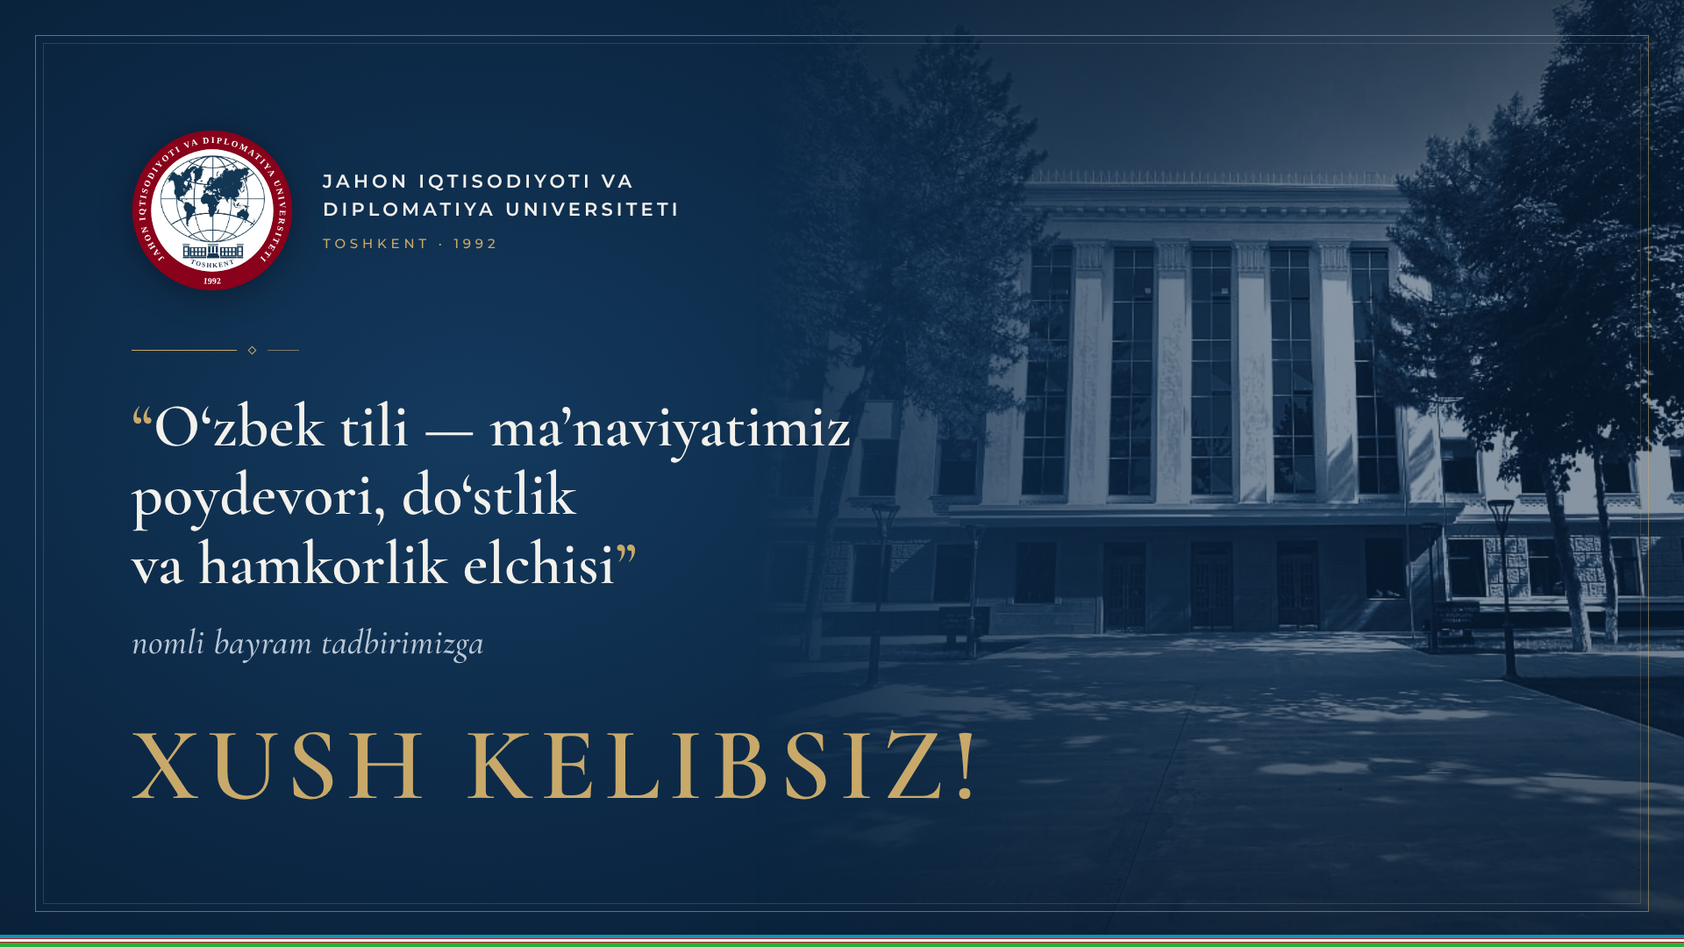
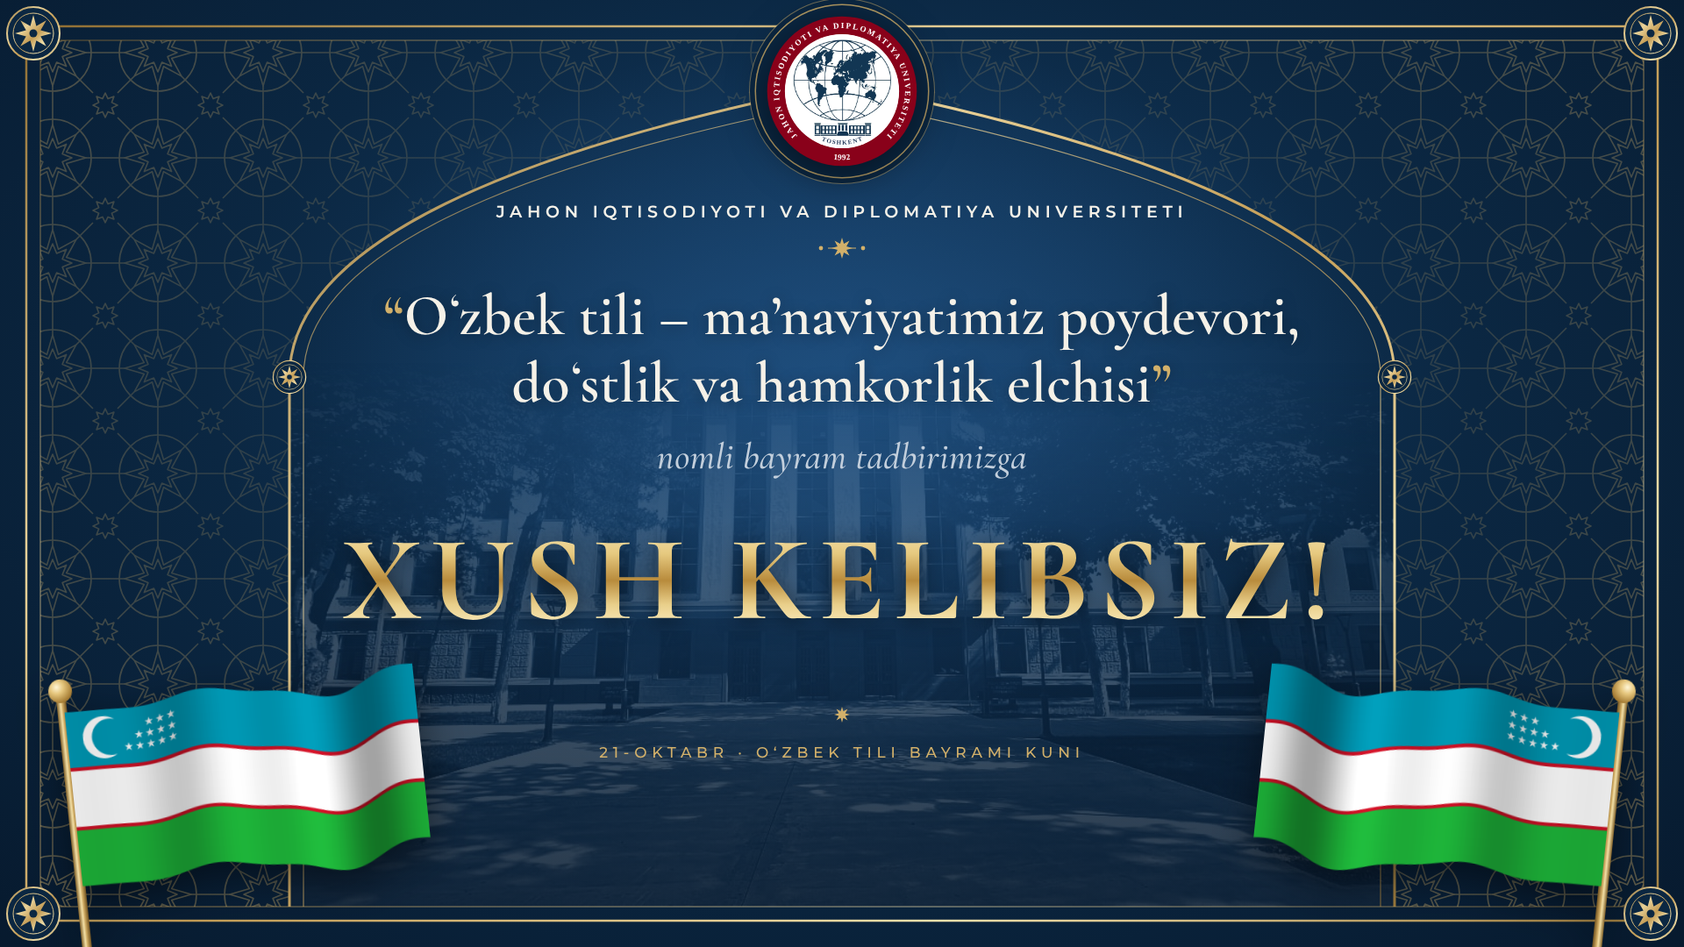
Баннер JIDU: богаче — арка-пештак, гирих, флаги, золото; тексты в официальной латинице
Claude-Session: https://claude.ai/code/session_01JGew3MMAL5gGKcuXmMspLN

diff --git a/banner/index.html b/banner/index.html
@@ -2,7 +2,7 @@
 <html lang="uz">
 <head>
 <meta charset="utf-8">
-<title>O‘zbek tili bayrami — JIDU</title>
+<title>Oʻzbek tili bayrami — JIDU</title>
 <style>
   @font-face { font-family: 'Cormorant Garamond'; src: url(fonts/CormorantGaramond.ttf); font-weight: 300 700; }
   @font-face { font-family: 'Cormorant Garamond'; src: url(fonts/CormorantGaramond-Italic.ttf); font-weight: 300 700; font-style: italic; }
@@ -11,90 +11,164 @@
   @font-face { font-family: 'Seal'; src: url(fonts/LiberationSerif-Bold.ttf); font-weight: 700; }
 
   :root {
-    --navy-0: #071a2e;
-    --navy-1: #0d2a48;
-    --navy-2: #143a5e;
-    --ink: #f3f1ec;
-    --mist: #b9c7d6;
-    --gold: #c8a96a;
-    --gold-soft: rgba(200, 169, 106, .55);
-    --wine: #89011a;
+    --navy-0: #06172a;
+    --navy-1: #0b2742;
+    --navy-2: #15406a;
+    --ink: #f5f1e8;
+    --mist: #c3cfdc;
+    --gold: #d2b06a;
   }
   * { margin: 0; padding: 0; box-sizing: border-box; }
   html, body { width: 1920px; height: 1080px; overflow: hidden; background: var(--navy-0); }
 
   .stage {
-    position: relative; width: 1920px; height: 1080px; overflow: hidden;
+    position: relative; width: 1920px; height: 1080px; overflow: hidden; color: var(--ink);
     background:
-      radial-gradient(1200px 900px at 28% 46%, var(--navy-2) 0%, var(--navy-1) 45%, var(--navy-0) 100%);
-    color: var(--ink);
+      radial-gradient(900px 620px at 50% 44%, rgba(40, 92, 145, .55) 0%, rgba(21, 64, 106, 0) 70%),
+      radial-gradient(1500px 1000px at 50% 40%, var(--navy-2) 0%, var(--navy-1) 48%, var(--navy-0) 100%);
   }
+  .stage > * { position: absolute; }
 
-  /* фото главного корпуса университета справа, уходит в фон */
+  /* главный корпус университета внутри арки */
   .photo {
-    position: absolute; top: 0; right: 0; width: 1060px; height: 1080px;
-    background: url(img/uwed-building.jpg) 46% 50% / cover no-repeat;
-    -webkit-mask-image: linear-gradient(90deg, transparent 0%, rgba(0,0,0,.55) 30%, #000 62%);
-            mask-image: linear-gradient(90deg, transparent 0%, rgba(0,0,0,.55) 30%, #000 62%);
-    opacity: .62;
+    inset: 0;
+    background: url(img/uwed-building.jpg) 50% 100% / 1500px auto no-repeat;
+    clip-path: path('M 330 1034 V 430 C 330 250, 690 150, 960 96 C 1230 150, 1590 250, 1590 430 V 1034 Z');
+    -webkit-mask-image: linear-gradient(180deg, transparent 38%, rgba(0,0,0,.6) 70%, #000 100%);
+            mask-image: linear-gradient(180deg, transparent 38%, rgba(0,0,0,.6) 70%, #000 100%);
+    opacity: .5;
   }
-  .photo::after {
-    content: ''; position: absolute; inset: 0;
-    background: linear-gradient(180deg, rgba(7,26,46,.55) 0%, rgba(7,26,46,0) 30%, rgba(7,26,46,0) 62%, rgba(7,26,46,.85) 100%);
-  }
-
-  /* тонкая паспарту-рамка */
-  .frame { position: absolute; inset: 40px; border: 1px solid var(--gold-soft); pointer-events: none; }
-  .frame::before { content: ''; position: absolute; inset: 8px; border: 1px solid rgba(200,169,106,.22); }
-
-  .content { position: absolute; left: 150px; top: 148px; width: 1060px; }
-
-  .uni { display: flex; align-items: center; gap: 34px; }
-  .seal { width: 184px; height: 184px; flex: none; filter: drop-shadow(0 6px 18px rgba(0,0,0,.35)); }
-  .uni-name {
-    font: 600 21px/1.55 'Montserrat', sans-serif; letter-spacing: .2em; text-transform: uppercase;
-    color: var(--ink);
-  }
-  .uni-name small {
-    display: block; margin-top: 10px; font-weight: 500; font-size: 15px; letter-spacing: .32em; color: var(--gold);
+  .photo-tint {
+    inset: 0; clip-path: path('M 330 1034 V 430 C 330 250, 690 150, 960 96 C 1230 150, 1590 250, 1590 430 V 1034 Z');
+    background: linear-gradient(180deg, rgba(6,23,42,0) 55%, rgba(6,23,42,.75) 100%);
   }
 
-  .rule { display: flex; align-items: center; gap: 14px; margin: 64px 0 44px; }
-  .rule i { display: block; height: 1px; background: var(--gold); }
-  .rule i:first-child { width: 120px; }
-  .rule b { width: 7px; height: 7px; transform: rotate(45deg); border: 1px solid var(--gold); }
-  .rule i:last-child { width: 36px; opacity: .6; }
+  .ornament { inset: 0; width: 1920px; height: 1080px; }
+
+  /* флаги на древках по нижним углам */
+  .flagset { top: 772px; width: 420px; height: 520px; filter: drop-shadow(0 16px 24px rgba(0,0,0,.5)); }
+  .flagset.left  { left: 104px; transform-origin: 18px 100%;  transform: rotate(-6deg); }
+  .flagset.right { right: 104px; transform-origin: 402px 100%; transform: rotate(6deg); }
+  .flagset .inner { position: absolute; inset: 0; }
+  .flagset.right .inner { transform: scaleX(-1); }
+  .pole {
+    position: absolute; left: 12px; top: 20px; width: 11px; bottom: 0; border-radius: 6px;
+    background: linear-gradient(90deg, #7d5d26 0%, #f3e0a6 40%, #c9a45c 62%, #6e5120 100%);
+  }
+  .finial {
+    position: absolute; left: 4px; top: 0; width: 27px; height: 27px; border-radius: 50%;
+    background: radial-gradient(circle at 36% 32%, #fff6d6 0%, #e6c77e 30%, #a57c34 72%, #6b4d1c 100%);
+  }
+  .flagset img { position: absolute; left: 20px; top: 14px; width: 400px; }
+  .crest { left: 0; right: 0; top: 0; height: 1080px; text-align: center; }
+  .seal {
+    position: absolute; left: 50%; top: 18px; width: 172px; height: 172px; margin-left: -86px;
+    filter: drop-shadow(0 8px 22px rgba(0,0,0,.5));
+  }
+  .seal-halo {
+    position: absolute; left: 50%; top: 6px; width: 196px; height: 196px; margin-left: -98px; border-radius: 50%;
+    background: var(--navy-1); box-shadow: 0 0 0 1.5px rgba(210,176,106,.85), 0 0 0 7px var(--navy-1), 0 0 0 8px rgba(210,176,106,.5);
+  }
+
+  .uni {
+    position: absolute; left: 0; right: 0; top: 232px;
+    font: 600 19px/1 'Montserrat', sans-serif; letter-spacing: .3em; text-transform: uppercase; color: var(--ink);
+  }
+
+  .divider { position: absolute; left: 50%; width: 520px; margin-left: -260px; height: 30px; }
+  .divider.top { top: 268px; }
+  .divider.bottom { top: 800px; }
 
   .title {
-    font: 600 70px/1.12 'Cormorant Garamond', serif; letter-spacing: .002em; color: var(--ink);
-    text-wrap: balance;
+    position: absolute; left: 0; right: 0; top: 322px;
+    font: 600 66px/1.16 'Cormorant Garamond', serif; color: var(--ink); letter-spacing: .004em;
+    text-shadow: 0 2px 16px rgba(0,0,0,.35);
   }
   .title .q { color: var(--gold); }
+  .title .ok { margin-right: -.05em; }
   .sub {
-    margin-top: 26px; font: italic 500 40px/1.2 'Cormorant Garamond', serif; color: var(--mist); letter-spacing: .01em;
+    position: absolute; left: 0; right: 0; top: 500px;
+    font: italic 500 42px/1 'Cormorant Garamond', serif; color: var(--mist); letter-spacing: .01em;
   }
   .welcome {
-    margin-top: 58px; font: 600 118px/1 'Cormorant Garamond', serif; letter-spacing: .075em; text-transform: uppercase;
-    color: var(--gold);
+    position: absolute; left: 0; right: 0; top: 586px;
+    font: 700 138px/1.1 'Cormorant Garamond', serif; letter-spacing: .07em; text-transform: uppercase;
+    background: linear-gradient(180deg, #fbf0c9 0%, #e6c97f 30%, #b88b3c 50%, #e9cf8a 68%, #f7e6b4 82%, #b48a43 100%);
+    -webkit-background-clip: text; background-clip: text; color: transparent;
+    filter: drop-shadow(0 4px 12px rgba(0,0,0,.55));
   }
-
-  /* лента цветов государственного флага по нижнему краю */
-  .flag { position: absolute; left: 0; right: 0; bottom: 0; height: 14px; display: flex; flex-direction: column; }
-  .flag span { flex: none; }
-  .flag .b { height: 4px; background: #0099b5; }
-  .flag .r { height: 1px; background: #ce1126; }
-  .flag .w { height: 3px; background: #fff; }
-  .flag .g { height: 5px; background: #1eb53a; }
+  .date {
+    position: absolute; left: 0; right: 0; top: 850px;
+    font: 500 17px/1 'Montserrat', sans-serif; letter-spacing: .34em; text-transform: uppercase; color: var(--gold);
+  }
 </style>
 </head>
 <body>
 <div class="stage">
   <div class="photo"></div>
-  <div class="frame"></div>
+  <div class="photo-tint"></div>
 
-  <div class="content">
-    <div class="uni">
-      <svg class="seal" viewBox="0 0 1091 1091" xmlns="http://www.w3.org/2000/svg" xmlns:xlink="http://www.w3.org/1999/xlink" role="img" aria-label="Jahon iqtisodiyoti va diplomatiya universiteti">
+  <svg class="ornament" viewBox="0 0 1920 1080" xmlns="http://www.w3.org/2000/svg">
+    <defs>
+      <linearGradient id="gold" x1="0" y1="0" x2="1" y2="1">
+        <stop offset="0" stop-color="#8f6d31"/><stop offset=".3" stop-color="#ead39a"/>
+        <stop offset=".55" stop-color="#c39c55"/><stop offset=".78" stop-color="#f3e2ad"/><stop offset="1" stop-color="#9c7a3b"/>
+      </linearGradient>
+      <linearGradient id="goldH" x1="0" y1="0" x2="1" y2="0">
+        <stop offset="0" stop-color="#c39c55" stop-opacity="0"/><stop offset=".25" stop-color="#e6cd90"/>
+        <stop offset=".5" stop-color="#f6e7b8"/><stop offset=".75" stop-color="#e6cd90"/><stop offset="1" stop-color="#c39c55" stop-opacity="0"/>
+      </linearGradient>
+      <!-- гирих: восьмиконечные звёзды хатам с переплетением -->
+      <pattern id="girih" width="120" height="120" patternUnits="userSpaceOnUse">
+        <g fill="none" stroke="#d2b06a" stroke-width="1.6" stroke-linejoin="round">
+          <polygon points="60.0,22.0 66.5,44.3 86.9,33.1 75.7,53.5 98.0,60.0 75.7,66.5 86.9,86.9 66.5,75.7 60.0,98.0 53.5,75.7 33.1,86.9 44.3,66.5 22.0,60.0 44.3,53.5 33.1,33.1 53.5,44.3"/>
+          <polygon points="60.0,38.0 64.6,48.9 75.6,44.4 71.1,55.4 82.0,60.0 71.1,64.6 75.6,75.6 64.6,71.1 60.0,82.0 55.4,71.1 44.4,75.6 48.9,64.6 38.0,60.0 48.9,55.4 44.4,44.4 55.4,48.9"/>
+          <path d="M98 60H120M0 60H22M60 98V120M60 0V22"/>
+          <path d="M87 87L106 106M33 33L14 14M87 33L106 14M33 87L14 106"/>
+          <polygon points="0.0,-14.0 3.1,-7.4 9.9,-9.9 7.4,-3.1 14.0,0.0 7.4,3.1 9.9,9.9 3.1,7.4 0.0,14.0 -3.1,7.4 -9.9,9.9 -7.4,3.1 -14.0,0.0 -7.4,-3.1 -9.9,-9.9 -3.1,-7.4"/><polygon points="120.0,-14.0 123.1,-7.4 129.9,-9.9 127.4,-3.1 134.0,0.0 127.4,3.1 129.9,9.9 123.1,7.4 120.0,14.0 116.9,7.4 110.1,9.9 112.6,3.1 106.0,0.0 112.6,-3.1 110.1,-9.9 116.9,-7.4"/>
+          <polygon points="0.0,106.0 3.1,112.6 9.9,110.1 7.4,116.9 14.0,120.0 7.4,123.1 9.9,129.9 3.1,127.4 0.0,134.0 -3.1,127.4 -9.9,129.9 -7.4,123.1 -14.0,120.0 -7.4,116.9 -9.9,110.1 -3.1,112.6"/><polygon points="120.0,106.0 123.1,112.6 129.9,110.1 127.4,116.9 134.0,120.0 127.4,123.1 129.9,129.9 123.1,127.4 120.0,134.0 116.9,127.4 110.1,129.9 112.6,123.1 106.0,120.0 112.6,116.9 110.1,110.1 116.9,112.6"/>
+          <circle cx="60" cy="60" r="44"/>
+        </g>
+      </pattern>
+      <clipPath id="outside" clip-rule="evenodd">
+        <path clip-rule="evenodd" d="M 46 46 H 1874 V 1034 H 46 Z M 330 1034 V 430 C 330 250, 690 150, 960 96 C 1230 150, 1590 250, 1590 430 V 1034 Z"/>
+      </clipPath>
+      <radialGradient id="fadeEdge" cx=".5" cy=".42" r=".7">
+        <stop offset=".35" stop-color="#fff" stop-opacity=".1"/><stop offset="1" stop-color="#fff" stop-opacity=".42"/>
+      </radialGradient>
+      <mask id="girihMask"><rect width="1920" height="1080" fill="url(#fadeEdge)"/></mask>
+      <g id="rosette">
+        <circle r="30" fill="#0b2742" stroke="url(#gold)" stroke-width="2"/>
+        <circle r="23" fill="none" stroke="url(#gold)" stroke-width="1"/>
+        <polygon points="0.0,-21.0 3.4,-8.3 14.8,-14.8 8.3,-3.4 21.0,0.0 8.3,3.4 14.8,14.8 3.4,8.3 0.0,21.0 -3.4,8.3 -14.8,14.8 -8.3,3.4 -21.0,0.0 -8.3,-3.4 -14.8,-14.8 -3.4,-8.3" fill="url(#gold)"/>
+        <circle r="4.5" fill="#0b2742"/>
+      </g>
+    </defs>
+
+    <!-- орнамент в пазухах арки и по бокам -->
+    <rect width="1920" height="1080" fill="url(#girih)" clip-path="url(#outside)" mask="url(#girihMask)"/>
+
+    <!-- арка: двойная золотая линия -->
+    <path d="M 330 1034 V 430 C 330 250, 690 150, 960 96 C 1230 150, 1590 250, 1590 430 V 1034" fill="none" stroke="url(#gold)" stroke-width="3"/>
+    <path d="M 346 1034 V 430 C 346 260, 696 166, 960 114 C 1224 166, 1574 260, 1574 430 V 1034" fill="none" stroke="url(#gold)" stroke-width="1.2" opacity=".75"/>
+
+    <!-- рамка -->
+    <rect x="30" y="30" width="1860" height="1020" fill="none" stroke="url(#gold)" stroke-width="2.5"/>
+    <rect x="46" y="46" width="1828" height="988" fill="none" stroke="url(#gold)" stroke-width="1" opacity=".7"/>
+    <use href="#rosette" x="38" y="38"/><use href="#rosette" x="1882" y="38"/>
+    <use href="#rosette" x="38" y="1042"/><use href="#rosette" x="1882" y="1042"/>
+
+    <!-- точки опоры арки -->
+    <use href="#rosette" x="330" y="430" transform="translate(330 430) scale(.62) translate(-330 -430)"/>
+    <use href="#rosette" x="1590" y="430" transform="translate(1590 430) scale(.62) translate(-1590 -430)"/>
+  </svg>
+
+  <div class="flagset left"><div class="inner"><div class="pole"></div><img src="img/flag-wave.png" alt=""><div class="finial"></div></div></div>
+  <div class="flagset right"><div class="inner"><div class="pole"></div><img src="img/flag-wave.png" alt=""><div class="finial"></div></div></div>
+
+  <div class="crest">
+    <div class="seal-halo"></div>
+    <svg class="seal" viewBox="0 0 1091 1091" xmlns="http://www.w3.org/2000/svg" xmlns:xlink="http://www.w3.org/1999/xlink" role="img" aria-label="Jahon iqtisodiyoti va diplomatiya universiteti">
   <defs>
     <!-- кольцо по часовой, от ~7 до ~5 часов; базовая линия r=456 -->
     <path id="ringPath" d="M 277.5 914.4 A 456 456 0 1 1 813.5 914.4"/>
@@ -111,17 +185,25 @@
   </g>
   <text font-family="Seal" font-weight="700" fill="#1d3557" font-size="45"><textPath href="#cityPath" startOffset="50%" text-anchor="middle" textLength="306" lengthAdjust="spacing">TOSHKENT</textPath></text>
 </svg>
-      <div class="uni-name">Jahon iqtisodiyoti va<br>diplomatiya universiteti<small>Toshkent · 1992</small></div>
-    </div>
+    <div class="uni">Jahon iqtisodiyoti va diplomatiya universiteti</div>
 
-    <div class="rule"><i></i><b></b><i></i></div>
+    <svg class="divider top" viewBox="0 0 520 30">
+      <path d="M0 15H228M292 15H520" stroke="url(#goldH)" stroke-width="1.4"/>
+      <path d="M244 15H276" stroke="#d2b06a" stroke-width="1"/>
+      <polygon points="260.0,3.0 262.1,9.9 268.5,6.5 265.1,12.9 272.0,15.0 265.1,17.1 268.5,23.5 262.1,20.1 260.0,27.0 257.9,20.1 251.5,23.5 254.9,17.1 248.0,15.0 254.9,12.9 251.5,6.5 257.9,9.9" fill="#d2b06a"/>
+      <circle cx="236" cy="15" r="2.4" fill="#d2b06a"/><circle cx="284" cy="15" r="2.4" fill="#d2b06a"/>
+    </svg>
 
-    <h1 class="title"><span class="q">“</span>O‘zbek tili — ma’naviyatimiz poydevori, do‘stlik va hamkorlik elchisi<span class="q">”</span></h1>
+    <h1 class="title"><span class="q">“</span>O<span class="ok">ʻ</span>zbek tili – maʼnaviyatimiz poydevori,<br>do<span class="ok">ʻ</span>stlik va hamkorlik elchisi<span class="q">”</span></h1>
     <p class="sub">nomli bayram tadbirimizga</p>
     <p class="welcome">Xush kelibsiz!</p>
-  </div>
 
-  <div class="flag"><span class="b"></span><span class="r"></span><span class="w"></span><span class="r"></span><span class="g"></span></div>
+    <svg class="divider bottom" viewBox="0 0 520 30">
+      <path d="M40 15H236M284 15H480" stroke="url(#goldH)" stroke-width="1.2"/>
+      <polygon points="260.0,6.0 261.5,11.3 266.4,8.6 263.7,13.5 269.0,15.0 263.7,16.5 266.4,21.4 261.5,18.7 260.0,24.0 258.5,18.7 253.6,21.4 256.3,16.5 251.0,15.0 256.3,13.5 253.6,8.6 258.5,11.3" fill="#d2b06a"/>
+    </svg>
+    <p class="date">21-oktabr · Oʻzbek tili bayrami kuni</p>
+  </div>
 </div>
 </body>
 </html>

diff --git a/banner/tools/make_flag.py b/banner/tools/make_flag.py
@@ -1,0 +1,82 @@
+"""Развевающийся флаг Узбекистана → img/flag-wave.png (прозрачный фон).
+
+Плоский флаг рисуется по официальным пропорциям 1:2, затем сворачивается в волну:
+каждый столбец смещается по синусоиде, амплитуда растёт от древка, складки затеняются.
+"""
+import math
+import sys
+
+import numpy as np
+from PIL import Image, ImageDraw
+
+W, H = 2000, 1000           # плоский флаг
+BLUE, WHITE, GREEN, RED = (0, 153, 181), (255, 255, 255), (30, 181, 58), (206, 17, 38)
+
+
+def star(d, cx, cy, r, fill):
+    pts = []
+    for i in range(10):
+        a = -math.pi / 2 + i * math.pi / 5
+        rr = r if i % 2 == 0 else r * 0.382
+        pts.append((cx + rr * math.cos(a), cy + rr * math.sin(a)))
+    d.polygon(pts, fill=fill)
+
+
+def flat():
+    im = Image.new('RGB', (W, H), WHITE)
+    d = ImageDraw.Draw(im)
+    u = H / 250                                   # 250 частей по высоте: 80 + 5 + 80 + 5 + 80
+    d.rectangle((0, 0, W, 80 * u), fill=BLUE)
+    d.rectangle((0, 80 * u, W, 85 * u), fill=RED)
+    d.rectangle((0, 165 * u, W, 170 * u), fill=RED)
+    d.rectangle((0, 170 * u, W, H), fill=GREEN)
+    # полумесяц
+    cx, cy, r = 52 * u, 40 * u, 30 * u
+    d.ellipse((cx - r, cy - r, cx + r, cy + r), fill=WHITE)
+    cx2, r2 = cx + 9 * u, 26 * u
+    d.ellipse((cx2 - r2, cy - r2, cx2 + r2, cy + r2), fill=BLUE)
+    # 12 звёзд: 3, 4, 5 в рядах, выровнены вправо
+    step, sr = 16 * u, 6 * u
+    x_right = 150 * u
+    for row, n in enumerate((3, 4, 5)):
+        y = (16 + row * 16) * u + 8 * u
+        for k in range(n):
+            star(d, x_right - k * step, y, sr, WHITE)
+    return np.asarray(im).astype(np.float32) / 255
+
+
+def wave(src, out_w=1800, out_h=1100, amp=70, waves=1.6, phase=0.6):
+    h, w, _ = src.shape
+    pad = (out_h - h * out_w / w) / 2
+    xs = np.arange(out_w)
+    t = xs / out_w
+    a = amp * (0.15 + 0.85 * t)                   # у древка ткань почти неподвижна
+    arg = 2 * math.pi * waves * t + phase
+    dy = a * (np.sin(arg) + 0.3 * np.sin(2.3 * arg + 1.1))
+    slope = np.gradient(dy)                       # наклон поверхности → свет и тень
+    s = slope / np.abs(slope).max()
+    shade = 0.9 + 0.26 * s
+    gloss = np.clip(s, 0, 1) ** 5 * 0.16          # блик на гребнях
+    sy = h / (out_h - 2 * pad)
+    out = np.zeros((out_h, out_w, 4), np.float32)
+    ys = np.arange(out_h)[:, None]
+    src_y = (ys - pad - dy[None, :]) * sy
+    src_x = np.broadcast_to((xs * w / out_w)[None, :], src_y.shape)
+    inside = (src_y >= 0) & (src_y < h - 1)
+    y0 = np.clip(np.floor(src_y).astype(int), 0, h - 2)
+    fy = (src_y - y0)[..., None]
+    x0 = np.clip(src_x.astype(int), 0, w - 1)
+    col = src[y0, x0] * (1 - fy) + src[y0 + 1, x0] * fy
+    col = np.clip(col * shade[None, :, None] + gloss[None, :, None], 0, 1)
+    out[..., :3] = col
+    # мягкие края по верху и низу
+    edge = np.minimum(src_y, (h - 1) - src_y) / 1.5
+    out[..., 3] = np.clip(edge, 0, 1) * inside
+    return out
+
+
+if __name__ == '__main__':
+    dst = sys.argv[1] if len(sys.argv) > 1 else 'img/flag-wave.png'
+    img = wave(flat())
+    Image.fromarray((img * 255).astype(np.uint8), 'RGBA').save(dst)
+    print(dst)

diff --git a/banner/README.md b/banner/README.md
@@ -1,19 +1,24 @@
-# Баннер «O‘zbek tili — ma’naviyatimiz poydevori, do‘stlik va hamkorlik elchisi»
+# Баннер «Oʻzbek tili – maʼnaviyatimiz poydevori, doʻstlik va hamkorlik elchisi»
 
 Приветственный экран 16:9 для праздничного мероприятия Jahon iqtisodiyoti va diplomatiya universiteti.
 
 Готовые файлы: `out/uwed-ozbek-tili-1920x1080.png` и `out/uwed-ozbek-tili-3840x2160.png` (4K).
 
-- Фон — глубокий синий (цвет сайта uwed.uz), тонкая золотая рамка, лента цветов флага по нижнему краю.
-- Справа — реальное фото главного корпуса университета (слайдер uwed.uz) в синем дуотоне.
-- Печать университета — векторная пересборка официальной узбекской версии с uwed.uz:
-  глобус и здание взяты из оригинального логотипа (`img/seal-inner.png`), надписи по кругу
-  «JAHON IQTISODIYOTI VA DIPLOMATIYA UNIVERSITETI», «TOSHKENT», «1992» набраны в SVG и не мылятся при любом размере.
+- Композиция — портал-пештак: стрельчатая арка в двойной золотой линии, пазухи и поля заполнены
+  орнаментом гирих (восьмиконечные звёзды хатам), рамка с розетками по углам.
+- Печать университета венчает арку как замковый камень. Это векторная пересборка официальной
+  узбекской версии с uwed.uz: глобус и здание из оригинального логотипа (`img/seal-inner.png`),
+  надписи по кругу набраны в SVG.
+- Внутри арки — реальное фото главного корпуса университета (слайдер uwed.uz) в синем дуотоне.
+- По нижним углам — флаги Узбекистана на золотых древках. Флаг нарисован по официальным
+  пропорциям и свёрнут в волну скриптом `tools/make_flag.py` (numpy + Pillow).
+- Тексты в официальной латинице: ʻ (U+02BB) в «Oʻzbek», «doʻstlik», ʼ (U+02BC) в «maʼnaviyatimiz».
 - Шрифты: Cormorant Garamond и Montserrat (Google Fonts, SIL OFL), Liberation Serif (SIL OFL) для печати.
 
 ## Сборка
 
 ```bash
+python3 tools/make_flag.py img/flag-wave.png   # только если меняется флаг
 node render.mjs
 ```
 
